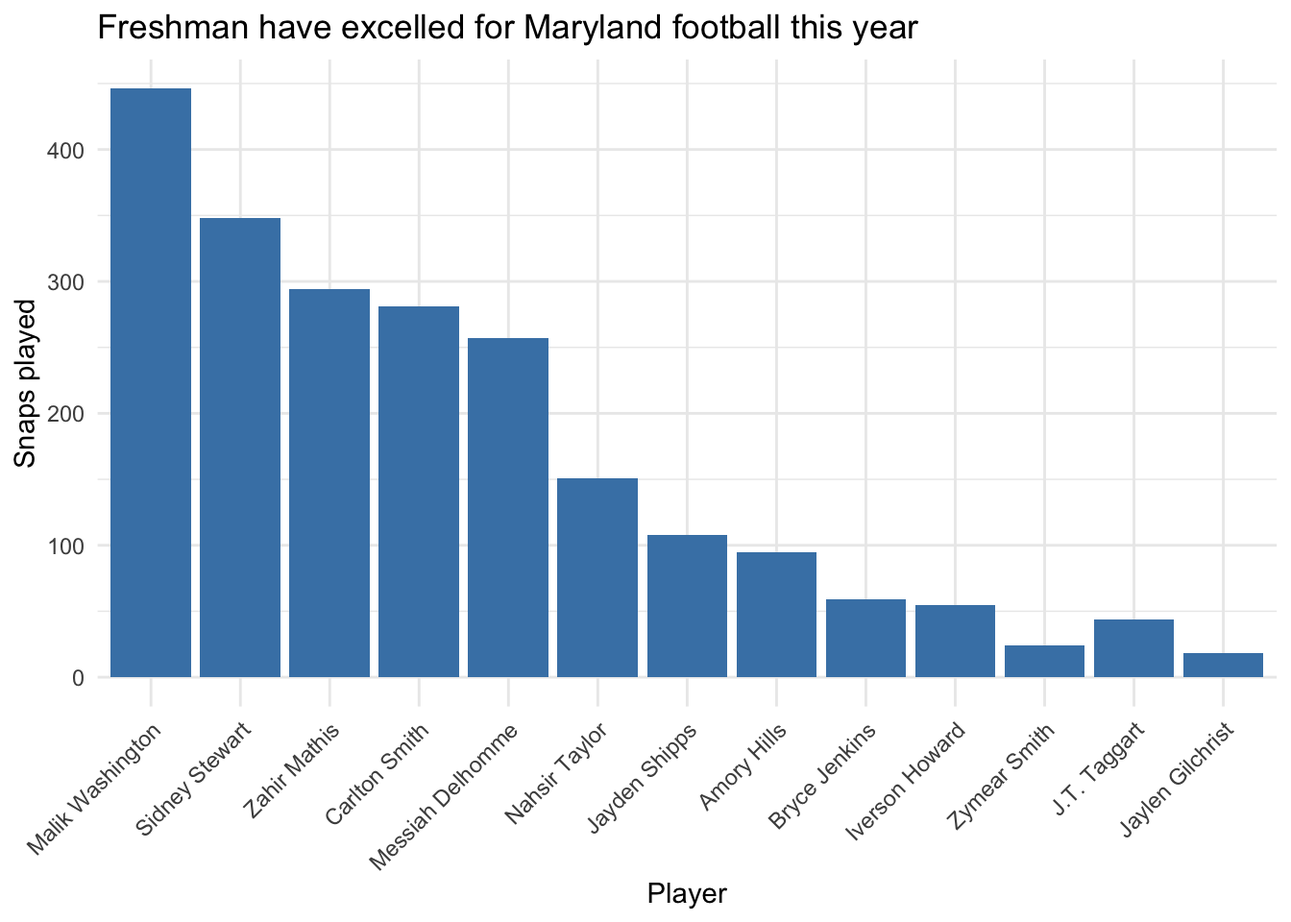
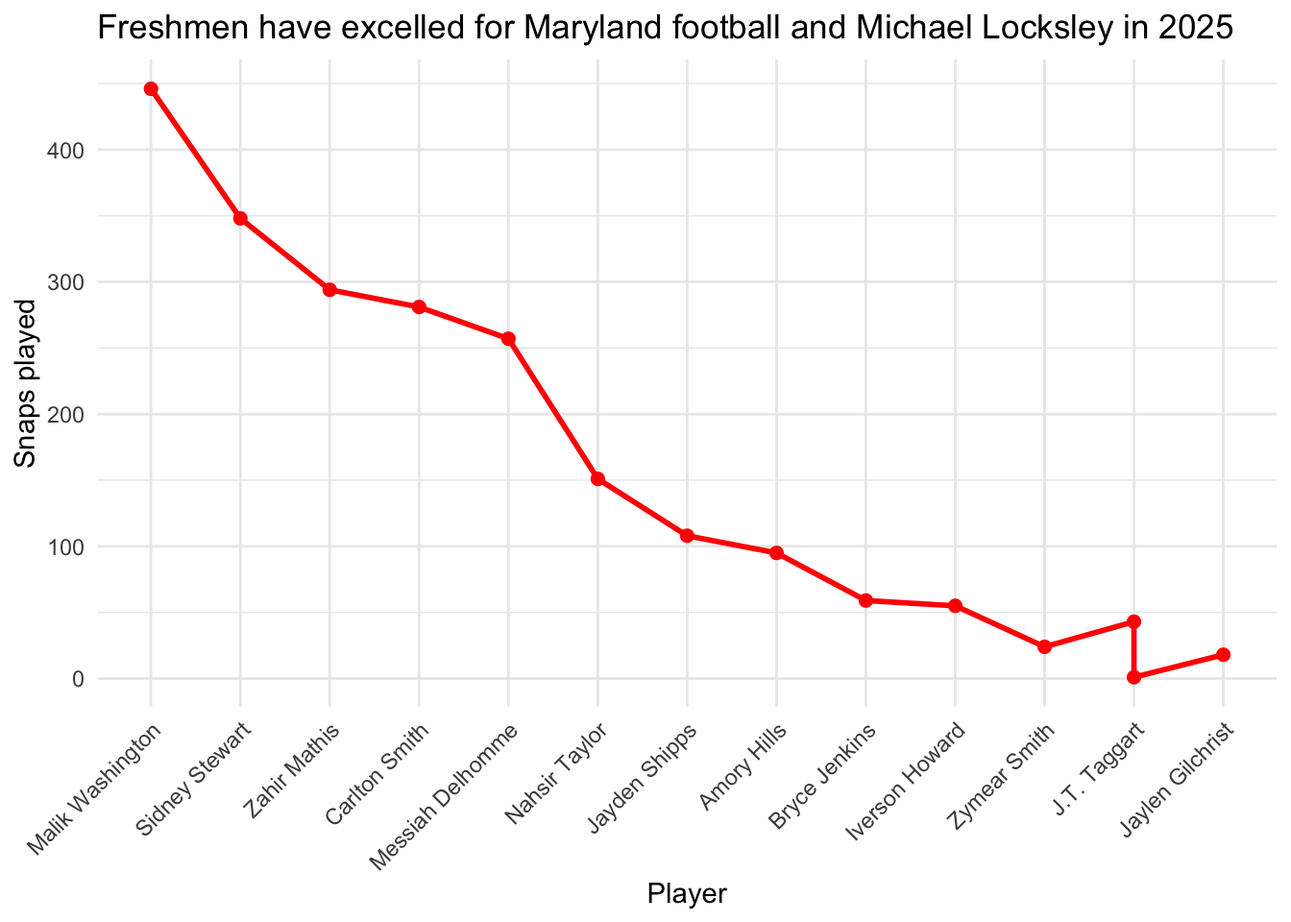
background
background

Changed region(s): [[0.0312, 0.0938, 1.0, 0.75], [0.625, 0.0, 0.9688, 0.0625]]

diff --git a/docs/posts/presentation/background.html b/docs/posts/presentation/background.html
@@ -164,10 +164,10 @@ pre > code.sourceCode > span > a:first-child::before { text-decoration: underlin
 <div class="cell-output cell-output-stderr">
 <pre><code>── Attaching core tidyverse packages ──────────────────────── tidyverse 2.0.0 ──
 ✔ dplyr     1.1.4     ✔ readr     2.1.5
-✔ forcats   1.0.0     ✔ stringr   1.5.1
-✔ ggplot2   3.5.1     ✔ tibble    3.2.1
+✔ forcats   1.0.0     ✔ stringr   1.6.0
+✔ ggplot2   4.0.0     ✔ tibble    3.3.0
 ✔ lubridate 1.9.3     ✔ tidyr     1.3.1
-✔ purrr     1.1.0     
+✔ purrr     1.2.0     
 ── Conflicts ────────────────────────────────────────── tidyverse_conflicts() ──
 ✖ dplyr::filter() masks stats::filter()
 ✖ dplyr::lag()    masks stats::lag()
@@ -236,21 +236,279 @@ lgl  (1): draft_season
 <span id="cb12-2"><a href="#cb12-2" aria-hidden="true" tabindex="-1"></a>  <span class="fu">arrange</span>(<span class="fu">desc</span>(snaps))</span></code></pre></div><button title="Copy to Clipboard" class="code-copy-button"><i class="bi"></i></button></div>
 </div>
 <div class="cell">
-<div class="code-copy-outer-scaffold"><div class="sourceCode cell-code" id="cb13"><pre class="sourceCode r code-with-copy"><code class="sourceCode r"><span id="cb13-1"><a href="#cb13-1" aria-hidden="true" tabindex="-1"></a><span class="fu">ggplot</span>(combined_snaps, <span class="fu">aes</span>(<span class="at">x =</span> <span class="fu">reorder</span>(player, <span class="sc">-</span>snaps), <span class="at">y =</span> snaps)) <span class="sc">+</span></span>
-<span id="cb13-2"><a href="#cb13-2" aria-hidden="true" tabindex="-1"></a>  <span class="fu">geom_col</span>(<span class="at">fill =</span> <span class="st">"steelblue"</span>) <span class="sc">+</span></span>
-<span id="cb13-3"><a href="#cb13-3" aria-hidden="true" tabindex="-1"></a>  <span class="fu">labs</span>(</span>
-<span id="cb13-4"><a href="#cb13-4" aria-hidden="true" tabindex="-1"></a>    <span class="at">title =</span> <span class="st">"Freshman have excelled for Maryland football this year"</span>,</span>
-<span id="cb13-5"><a href="#cb13-5" aria-hidden="true" tabindex="-1"></a>    <span class="at">x =</span> <span class="st">"Player"</span>,</span>
-<span id="cb13-6"><a href="#cb13-6" aria-hidden="true" tabindex="-1"></a>    <span class="at">y =</span> <span class="st">"Snaps played"</span></span>
-<span id="cb13-7"><a href="#cb13-7" aria-hidden="true" tabindex="-1"></a>  ) <span class="sc">+</span></span>
-<span id="cb13-8"><a href="#cb13-8" aria-hidden="true" tabindex="-1"></a>  <span class="fu">theme_minimal</span>() <span class="sc">+</span></span>
-<span id="cb13-9"><a href="#cb13-9" aria-hidden="true" tabindex="-1"></a>  <span class="fu">theme</span>(</span>
-<span id="cb13-10"><a href="#cb13-10" aria-hidden="true" tabindex="-1"></a>    <span class="at">axis.text.x =</span> <span class="fu">element_text</span>(<span class="at">angle =</span> <span class="dv">45</span>, <span class="at">hjust =</span> <span class="dv">1</span>)</span>
-<span id="cb13-11"><a href="#cb13-11" aria-hidden="true" tabindex="-1"></a>  )</span></code></pre></div><button title="Copy to Clipboard" class="code-copy-button"><i class="bi"></i></button></div>
+<div class="code-copy-outer-scaffold"><div class="sourceCode cell-code" id="cb13"><pre class="sourceCode r code-with-copy"><code class="sourceCode r"><span id="cb13-1"><a href="#cb13-1" aria-hidden="true" tabindex="-1"></a><span class="fu">ggplot</span>(combined_snaps, <span class="fu">aes</span>(<span class="at">x =</span> <span class="fu">reorder</span>(player, <span class="sc">-</span>snaps), <span class="at">y =</span> snaps, <span class="at">group =</span> <span class="dv">1</span>)) <span class="sc">+</span></span>
+<span id="cb13-2"><a href="#cb13-2" aria-hidden="true" tabindex="-1"></a>  <span class="fu">geom_line</span>(<span class="at">color =</span> <span class="st">"red"</span>, <span class="at">linewidth =</span> <span class="dv">1</span>) <span class="sc">+</span></span>
+<span id="cb13-3"><a href="#cb13-3" aria-hidden="true" tabindex="-1"></a>  <span class="fu">geom_point</span>(<span class="at">color =</span> <span class="st">"red"</span>, <span class="at">size =</span> <span class="dv">2</span>) <span class="sc">+</span></span>
+<span id="cb13-4"><a href="#cb13-4" aria-hidden="true" tabindex="-1"></a>  <span class="fu">labs</span>(</span>
+<span id="cb13-5"><a href="#cb13-5" aria-hidden="true" tabindex="-1"></a>    <span class="at">title =</span> <span class="st">"Freshmen have excelled for Maryland football and Michael Locksley in 2025"</span>,</span>
+<span id="cb13-6"><a href="#cb13-6" aria-hidden="true" tabindex="-1"></a>    <span class="at">x =</span> <span class="st">"Player"</span>,</span>
+<span id="cb13-7"><a href="#cb13-7" aria-hidden="true" tabindex="-1"></a>    <span class="at">y =</span> <span class="st">"Snaps played"</span></span>
+<span id="cb13-8"><a href="#cb13-8" aria-hidden="true" tabindex="-1"></a>  ) <span class="sc">+</span></span>
+<span id="cb13-9"><a href="#cb13-9" aria-hidden="true" tabindex="-1"></a>  <span class="fu">theme_minimal</span>() <span class="sc">+</span></span>
+<span id="cb13-10"><a href="#cb13-10" aria-hidden="true" tabindex="-1"></a>  <span class="fu">theme</span>(</span>
+<span id="cb13-11"><a href="#cb13-11" aria-hidden="true" tabindex="-1"></a>    <span class="at">axis.text.x =</span> <span class="fu">element_text</span>(<span class="at">angle =</span> <span class="dv">45</span>, <span class="at">hjust =</span> <span class="dv">1</span>)</span>
+<span id="cb13-12"><a href="#cb13-12" aria-hidden="true" tabindex="-1"></a>  )</span></code></pre></div><button title="Copy to Clipboard" class="code-copy-button"><i class="bi"></i></button></div>
 <div class="cell-output-display">
 <div>
 <figure class="figure">
 <p><img src="background_files/figure-html/unnamed-chunk-10-1.png" class="img-fluid figure-img" width="672"></p>
+</figure>
+</div>
+</div>
+</div>
+<div class="cell">
+<div class="code-copy-outer-scaffold"><div class="sourceCode cell-code" id="cb14"><pre class="sourceCode r code-with-copy"><code class="sourceCode r"><span id="cb14-1"><a href="#cb14-1" aria-hidden="true" tabindex="-1"></a>washington <span class="ot">&lt;-</span> <span class="fu">read_csv</span>(<span class="st">"washington.csv"</span>)</span></code></pre></div><button title="Copy to Clipboard" class="code-copy-button"><i class="bi"></i></button></div>
+<div class="cell-output cell-output-stderr">
+<pre><code>Rows: 36 Columns: 59
+── Column specification ────────────────────────────────────────────────────────
+Delimiter: ","
+chr  (5): team_name, jersey_number, team, position, player
+dbl (53): targets, interception_touchdowns, forced_fumbles, missed_tackles, ...
+lgl  (1): draft_season
+
+ℹ Use `spec()` to retrieve the full column specification for this data.
+ℹ Specify the column types or set `show_col_types = FALSE` to quiet this message.</code></pre>
+</div>
+<div class="code-copy-outer-scaffold"><div class="sourceCode cell-code" id="cb16"><pre class="sourceCode r code-with-copy"><code class="sourceCode r"><span id="cb16-1"><a href="#cb16-1" aria-hidden="true" tabindex="-1"></a>wisconsin <span class="ot">&lt;-</span> <span class="fu">read_csv</span>(<span class="st">"wisconsin.csv"</span>)</span></code></pre></div><button title="Copy to Clipboard" class="code-copy-button"><i class="bi"></i></button></div>
+<div class="cell-output cell-output-stderr">
+<pre><code>Rows: 38 Columns: 59
+── Column specification ────────────────────────────────────────────────────────
+Delimiter: ","
+chr  (5): team_name, jersey_number, team, position, player
+dbl (53): targets, interception_touchdowns, forced_fumbles, missed_tackles, ...
+lgl  (1): draft_season
+
+ℹ Use `spec()` to retrieve the full column specification for this data.
+ℹ Specify the column types or set `show_col_types = FALSE` to quiet this message.</code></pre>
+</div>
+<div class="code-copy-outer-scaffold"><div class="sourceCode cell-code" id="cb18"><pre class="sourceCode r code-with-copy"><code class="sourceCode r"><span id="cb18-1"><a href="#cb18-1" aria-hidden="true" tabindex="-1"></a>usc <span class="ot">&lt;-</span> <span class="fu">read_csv</span>(<span class="st">"usc.csv"</span>)</span></code></pre></div><button title="Copy to Clipboard" class="code-copy-button"><i class="bi"></i></button></div>
+<div class="cell-output cell-output-stderr">
+<pre><code>Rows: 45 Columns: 59
+── Column specification ────────────────────────────────────────────────────────
+Delimiter: ","
+chr  (5): team_name, jersey_number, team, position, player
+dbl (53): targets, interception_touchdowns, forced_fumbles, missed_tackles, ...
+lgl  (1): draft_season
+
+ℹ Use `spec()` to retrieve the full column specification for this data.
+ℹ Specify the column types or set `show_col_types = FALSE` to quiet this message.</code></pre>
+</div>
+<div class="code-copy-outer-scaffold"><div class="sourceCode cell-code" id="cb20"><pre class="sourceCode r code-with-copy"><code class="sourceCode r"><span id="cb20-1"><a href="#cb20-1" aria-hidden="true" tabindex="-1"></a>ucla <span class="ot">&lt;-</span> <span class="fu">read_csv</span>(<span class="st">"ucla.csv"</span>)</span></code></pre></div><button title="Copy to Clipboard" class="code-copy-button"><i class="bi"></i></button></div>
+<div class="cell-output cell-output-stderr">
+<pre><code>Rows: 32 Columns: 59
+── Column specification ────────────────────────────────────────────────────────
+Delimiter: ","
+chr  (5): team_name, jersey_number, team, position, player
+dbl (53): targets, interception_touchdowns, forced_fumbles, missed_tackles, ...
+lgl  (1): draft_season
+
+ℹ Use `spec()` to retrieve the full column specification for this data.
+ℹ Specify the column types or set `show_col_types = FALSE` to quiet this message.</code></pre>
+</div>
+<div class="code-copy-outer-scaffold"><div class="sourceCode cell-code" id="cb22"><pre class="sourceCode r code-with-copy"><code class="sourceCode r"><span id="cb22-1"><a href="#cb22-1" aria-hidden="true" tabindex="-1"></a>rutgers <span class="ot">&lt;-</span> <span class="fu">read_csv</span>(<span class="st">"rutgers.csv"</span>)</span></code></pre></div><button title="Copy to Clipboard" class="code-copy-button"><i class="bi"></i></button></div>
+<div class="cell-output cell-output-stderr">
+<pre><code>Rows: 39 Columns: 59
+── Column specification ────────────────────────────────────────────────────────
+Delimiter: ","
+chr  (5): team_name, jersey_number, team, position, player
+dbl (53): targets, interception_touchdowns, forced_fumbles, missed_tackles, ...
+lgl  (1): draft_season
+
+ℹ Use `spec()` to retrieve the full column specification for this data.
+ℹ Specify the column types or set `show_col_types = FALSE` to quiet this message.</code></pre>
+</div>
+<div class="code-copy-outer-scaffold"><div class="sourceCode cell-code" id="cb24"><pre class="sourceCode r code-with-copy"><code class="sourceCode r"><span id="cb24-1"><a href="#cb24-1" aria-hidden="true" tabindex="-1"></a>purdue <span class="ot">&lt;-</span> <span class="fu">read_csv</span>(<span class="st">"purdue.csv"</span>)</span></code></pre></div><button title="Copy to Clipboard" class="code-copy-button"><i class="bi"></i></button></div>
+<div class="cell-output cell-output-stderr">
+<pre><code>Rows: 36 Columns: 59
+── Column specification ────────────────────────────────────────────────────────
+Delimiter: ","
+chr  (5): team_name, jersey_number, team, position, player
+dbl (53): targets, interception_touchdowns, forced_fumbles, missed_tackles, ...
+lgl  (1): draft_season
+
+ℹ Use `spec()` to retrieve the full column specification for this data.
+ℹ Specify the column types or set `show_col_types = FALSE` to quiet this message.</code></pre>
+</div>
+<div class="code-copy-outer-scaffold"><div class="sourceCode cell-code" id="cb26"><pre class="sourceCode r code-with-copy"><code class="sourceCode r"><span id="cb26-1"><a href="#cb26-1" aria-hidden="true" tabindex="-1"></a>penn_state <span class="ot">&lt;-</span> <span class="fu">read_csv</span>(<span class="st">"psu.csv"</span>)</span></code></pre></div><button title="Copy to Clipboard" class="code-copy-button"><i class="bi"></i></button></div>
+<div class="cell-output cell-output-stderr">
+<pre><code>Rows: 44 Columns: 59
+── Column specification ────────────────────────────────────────────────────────
+Delimiter: ","
+chr  (5): team_name, jersey_number, team, position, player
+dbl (53): targets, interception_touchdowns, forced_fumbles, missed_tackles, ...
+lgl  (1): draft_season
+
+ℹ Use `spec()` to retrieve the full column specification for this data.
+ℹ Specify the column types or set `show_col_types = FALSE` to quiet this message.</code></pre>
+</div>
+<div class="code-copy-outer-scaffold"><div class="sourceCode cell-code" id="cb28"><pre class="sourceCode r code-with-copy"><code class="sourceCode r"><span id="cb28-1"><a href="#cb28-1" aria-hidden="true" tabindex="-1"></a>oregon <span class="ot">&lt;-</span> <span class="fu">read_csv</span>(<span class="st">"oregon.csv"</span>)</span></code></pre></div><button title="Copy to Clipboard" class="code-copy-button"><i class="bi"></i></button></div>
+<div class="cell-output cell-output-stderr">
+<pre><code>Rows: 37 Columns: 59
+── Column specification ────────────────────────────────────────────────────────
+Delimiter: ","
+chr  (5): team_name, jersey_number, team, position, player
+dbl (53): targets, interception_touchdowns, forced_fumbles, missed_tackles, ...
+lgl  (1): draft_season
+
+ℹ Use `spec()` to retrieve the full column specification for this data.
+ℹ Specify the column types or set `show_col_types = FALSE` to quiet this message.</code></pre>
+</div>
+<div class="code-copy-outer-scaffold"><div class="sourceCode cell-code" id="cb30"><pre class="sourceCode r code-with-copy"><code class="sourceCode r"><span id="cb30-1"><a href="#cb30-1" aria-hidden="true" tabindex="-1"></a>northwestern <span class="ot">&lt;-</span> <span class="fu">read_csv</span>(<span class="st">"northwestern.csv"</span>)</span></code></pre></div><button title="Copy to Clipboard" class="code-copy-button"><i class="bi"></i></button></div>
+<div class="cell-output cell-output-stderr">
+<pre><code>Rows: 34 Columns: 59
+── Column specification ────────────────────────────────────────────────────────
+Delimiter: ","
+chr  (5): team_name, jersey_number, team, position, player
+dbl (53): targets, interception_touchdowns, forced_fumbles, missed_tackles, ...
+lgl  (1): draft_season
+
+ℹ Use `spec()` to retrieve the full column specification for this data.
+ℹ Specify the column types or set `show_col_types = FALSE` to quiet this message.</code></pre>
+</div>
+<div class="code-copy-outer-scaffold"><div class="sourceCode cell-code" id="cb32"><pre class="sourceCode r code-with-copy"><code class="sourceCode r"><span id="cb32-1"><a href="#cb32-1" aria-hidden="true" tabindex="-1"></a>nebraska <span class="ot">&lt;-</span> <span class="fu">read_csv</span>(<span class="st">"nebraska.csv"</span>)</span></code></pre></div><button title="Copy to Clipboard" class="code-copy-button"><i class="bi"></i></button></div>
+<div class="cell-output cell-output-stderr">
+<pre><code>Rows: 52 Columns: 59
+── Column specification ────────────────────────────────────────────────────────
+Delimiter: ","
+chr  (5): team_name, jersey_number, team, position, player
+dbl (53): targets, interception_touchdowns, forced_fumbles, missed_tackles, ...
+lgl  (1): draft_season
+
+ℹ Use `spec()` to retrieve the full column specification for this data.
+ℹ Specify the column types or set `show_col_types = FALSE` to quiet this message.</code></pre>
+</div>
+<div class="code-copy-outer-scaffold"><div class="sourceCode cell-code" id="cb34"><pre class="sourceCode r code-with-copy"><code class="sourceCode r"><span id="cb34-1"><a href="#cb34-1" aria-hidden="true" tabindex="-1"></a>minnesota <span class="ot">&lt;-</span> <span class="fu">read_csv</span>(<span class="st">"minnesota.csv"</span>)</span></code></pre></div><button title="Copy to Clipboard" class="code-copy-button"><i class="bi"></i></button></div>
+<div class="cell-output cell-output-stderr">
+<pre><code>Rows: 33 Columns: 59
+── Column specification ────────────────────────────────────────────────────────
+Delimiter: ","
+chr  (5): team_name, jersey_number, team, position, player
+dbl (53): targets, interception_touchdowns, forced_fumbles, missed_tackles, ...
+lgl  (1): draft_season
+
+ℹ Use `spec()` to retrieve the full column specification for this data.
+ℹ Specify the column types or set `show_col_types = FALSE` to quiet this message.</code></pre>
+</div>
+<div class="code-copy-outer-scaffold"><div class="sourceCode cell-code" id="cb36"><pre class="sourceCode r code-with-copy"><code class="sourceCode r"><span id="cb36-1"><a href="#cb36-1" aria-hidden="true" tabindex="-1"></a>michigan <span class="ot">&lt;-</span> <span class="fu">read_csv</span>(<span class="st">"michigan.csv"</span>)</span></code></pre></div><button title="Copy to Clipboard" class="code-copy-button"><i class="bi"></i></button></div>
+<div class="cell-output cell-output-stderr">
+<pre><code>Rows: 45 Columns: 59
+── Column specification ────────────────────────────────────────────────────────
+Delimiter: ","
+chr  (5): team_name, jersey_number, team, position, player
+dbl (53): targets, interception_touchdowns, forced_fumbles, missed_tackles, ...
+lgl  (1): draft_season
+
+ℹ Use `spec()` to retrieve the full column specification for this data.
+ℹ Specify the column types or set `show_col_types = FALSE` to quiet this message.</code></pre>
+</div>
+<div class="code-copy-outer-scaffold"><div class="sourceCode cell-code" id="cb38"><pre class="sourceCode r code-with-copy"><code class="sourceCode r"><span id="cb38-1"><a href="#cb38-1" aria-hidden="true" tabindex="-1"></a>msu <span class="ot">&lt;-</span> <span class="fu">read_csv</span>(<span class="st">"msu.csv"</span>)</span></code></pre></div><button title="Copy to Clipboard" class="code-copy-button"><i class="bi"></i></button></div>
+<div class="cell-output cell-output-stderr">
+<pre><code>Rows: 45 Columns: 59
+── Column specification ────────────────────────────────────────────────────────
+Delimiter: ","
+chr  (5): team_name, jersey_number, team, position, player
+dbl (53): targets, interception_touchdowns, forced_fumbles, missed_tackles, ...
+lgl  (1): draft_season
+
+ℹ Use `spec()` to retrieve the full column specification for this data.
+ℹ Specify the column types or set `show_col_types = FALSE` to quiet this message.</code></pre>
+</div>
+<div class="code-copy-outer-scaffold"><div class="sourceCode cell-code" id="cb40"><pre class="sourceCode r code-with-copy"><code class="sourceCode r"><span id="cb40-1"><a href="#cb40-1" aria-hidden="true" tabindex="-1"></a>iowa <span class="ot">&lt;-</span> <span class="fu">read_csv</span>(<span class="st">"iowa.csv"</span>)</span></code></pre></div><button title="Copy to Clipboard" class="code-copy-button"><i class="bi"></i></button></div>
+<div class="cell-output cell-output-stderr">
+<pre><code>Rows: 38 Columns: 59
+── Column specification ────────────────────────────────────────────────────────
+Delimiter: ","
+chr  (5): team_name, jersey_number, team, position, player
+dbl (53): targets, interception_touchdowns, forced_fumbles, missed_tackles, ...
+lgl  (1): draft_season
+
+ℹ Use `spec()` to retrieve the full column specification for this data.
+ℹ Specify the column types or set `show_col_types = FALSE` to quiet this message.</code></pre>
+</div>
+<div class="code-copy-outer-scaffold"><div class="sourceCode cell-code" id="cb42"><pre class="sourceCode r code-with-copy"><code class="sourceCode r"><span id="cb42-1"><a href="#cb42-1" aria-hidden="true" tabindex="-1"></a>indiana <span class="ot">&lt;-</span> <span class="fu">read_csv</span>(<span class="st">"indiana.csv"</span>)</span></code></pre></div><button title="Copy to Clipboard" class="code-copy-button"><i class="bi"></i></button></div>
+<div class="cell-output cell-output-stderr">
+<pre><code>Rows: 37 Columns: 59
+── Column specification ────────────────────────────────────────────────────────
+Delimiter: ","
+chr  (5): team_name, jersey_number, team, position, player
+dbl (53): targets, interception_touchdowns, forced_fumbles, missed_tackles, ...
+lgl  (1): draft_season
+
+ℹ Use `spec()` to retrieve the full column specification for this data.
+ℹ Specify the column types or set `show_col_types = FALSE` to quiet this message.</code></pre>
+</div>
+<div class="code-copy-outer-scaffold"><div class="sourceCode cell-code" id="cb44"><pre class="sourceCode r code-with-copy"><code class="sourceCode r"><span id="cb44-1"><a href="#cb44-1" aria-hidden="true" tabindex="-1"></a>illinois <span class="ot">&lt;-</span> <span class="fu">read_csv</span>(<span class="st">"illinois.csv"</span>)</span></code></pre></div><button title="Copy to Clipboard" class="code-copy-button"><i class="bi"></i></button></div>
+<div class="cell-output cell-output-stderr">
+<pre><code>Rows: 39 Columns: 59
+── Column specification ────────────────────────────────────────────────────────
+Delimiter: ","
+chr  (5): team_name, jersey_number, team, position, player
+dbl (53): targets, interception_touchdowns, forced_fumbles, missed_tackles, ...
+lgl  (1): draft_season
+
+ℹ Use `spec()` to retrieve the full column specification for this data.
+ℹ Specify the column types or set `show_col_types = FALSE` to quiet this message.</code></pre>
+</div>
+<div class="code-copy-outer-scaffold"><div class="sourceCode cell-code" id="cb46"><pre class="sourceCode r code-with-copy"><code class="sourceCode r"><span id="cb46-1"><a href="#cb46-1" aria-hidden="true" tabindex="-1"></a>osu <span class="ot">&lt;-</span> <span class="fu">read_csv</span>(<span class="st">"osu.csv"</span>)</span></code></pre></div><button title="Copy to Clipboard" class="code-copy-button"><i class="bi"></i></button></div>
+<div class="cell-output cell-output-stderr">
+<pre><code>Rows: 41 Columns: 59
+── Column specification ────────────────────────────────────────────────────────
+Delimiter: ","
+chr  (5): team_name, jersey_number, team, position, player
+dbl (53): targets, interception_touchdowns, forced_fumbles, missed_tackles, ...
+lgl  (1): draft_season
+
+ℹ Use `spec()` to retrieve the full column specification for this data.
+ℹ Specify the column types or set `show_col_types = FALSE` to quiet this message.</code></pre>
+</div>
+</div>
+<div class="cell">
+<div class="code-copy-outer-scaffold"><div class="sourceCode cell-code" id="cb48"><pre class="sourceCode r code-with-copy"><code class="sourceCode r"><span id="cb48-1"><a href="#cb48-1" aria-hidden="true" tabindex="-1"></a>big_ten_data <span class="ot">&lt;-</span> <span class="fu">bind_rows</span>(</span>
+<span id="cb48-2"><a href="#cb48-2" aria-hidden="true" tabindex="-1"></a>  washington,</span>
+<span id="cb48-3"><a href="#cb48-3" aria-hidden="true" tabindex="-1"></a>  wisconsin,</span>
+<span id="cb48-4"><a href="#cb48-4" aria-hidden="true" tabindex="-1"></a>  usc,</span>
+<span id="cb48-5"><a href="#cb48-5" aria-hidden="true" tabindex="-1"></a>  ucla,</span>
+<span id="cb48-6"><a href="#cb48-6" aria-hidden="true" tabindex="-1"></a>  rutgers,</span>
+<span id="cb48-7"><a href="#cb48-7" aria-hidden="true" tabindex="-1"></a>  purdue,</span>
+<span id="cb48-8"><a href="#cb48-8" aria-hidden="true" tabindex="-1"></a>  penn_state,</span>
+<span id="cb48-9"><a href="#cb48-9" aria-hidden="true" tabindex="-1"></a>  oregon,</span>
+<span id="cb48-10"><a href="#cb48-10" aria-hidden="true" tabindex="-1"></a>  northwestern,</span>
+<span id="cb48-11"><a href="#cb48-11" aria-hidden="true" tabindex="-1"></a>  nebraska,</span>
+<span id="cb48-12"><a href="#cb48-12" aria-hidden="true" tabindex="-1"></a>  minnesota,</span>
+<span id="cb48-13"><a href="#cb48-13" aria-hidden="true" tabindex="-1"></a>  michigan,</span>
+<span id="cb48-14"><a href="#cb48-14" aria-hidden="true" tabindex="-1"></a>  msu,</span>
+<span id="cb48-15"><a href="#cb48-15" aria-hidden="true" tabindex="-1"></a>  iowa,</span>
+<span id="cb48-16"><a href="#cb48-16" aria-hidden="true" tabindex="-1"></a>  indiana,</span>
+<span id="cb48-17"><a href="#cb48-17" aria-hidden="true" tabindex="-1"></a>  illinois,</span>
+<span id="cb48-18"><a href="#cb48-18" aria-hidden="true" tabindex="-1"></a>  osu,</span>
+<span id="cb48-19"><a href="#cb48-19" aria-hidden="true" tabindex="-1"></a>  maryland_def_snaps</span>
+<span id="cb48-20"><a href="#cb48-20" aria-hidden="true" tabindex="-1"></a>)</span></code></pre></div><button title="Copy to Clipboard" class="code-copy-button"><i class="bi"></i></button></div>
+</div>
+<div class="cell">
+<div class="code-copy-outer-scaffold"><div class="sourceCode cell-code" id="cb49"><pre class="sourceCode r code-with-copy"><code class="sourceCode r"><span id="cb49-1"><a href="#cb49-1" aria-hidden="true" tabindex="-1"></a>big_ten_2029 <span class="ot">&lt;-</span> big_ten_data <span class="sc">|&gt;</span></span>
+<span id="cb49-2"><a href="#cb49-2" aria-hidden="true" tabindex="-1"></a>  <span class="fu">filter</span>(eligible_season <span class="sc">==</span> <span class="dv">2029</span>)</span></code></pre></div><button title="Copy to Clipboard" class="code-copy-button"><i class="bi"></i></button></div>
+</div>
+<div class="cell">
+<div class="code-copy-outer-scaffold"><div class="sourceCode cell-code" id="cb50"><pre class="sourceCode r code-with-copy"><code class="sourceCode r"><span id="cb50-1"><a href="#cb50-1" aria-hidden="true" tabindex="-1"></a>team_defense_snaps <span class="ot">&lt;-</span> big_ten_2029 <span class="sc">%&gt;%</span></span>
+<span id="cb50-2"><a href="#cb50-2" aria-hidden="true" tabindex="-1"></a>  <span class="fu">group_by</span>(team_name) <span class="sc">|&gt;</span></span>
+<span id="cb50-3"><a href="#cb50-3" aria-hidden="true" tabindex="-1"></a>  <span class="fu">summarise</span>(<span class="at">total_snap_counts_defense =</span> <span class="fu">sum</span>(snap_counts_defense, <span class="at">na.rm =</span> <span class="cn">TRUE</span>)) <span class="sc">|&gt;</span></span>
+<span id="cb50-4"><a href="#cb50-4" aria-hidden="true" tabindex="-1"></a>  <span class="fu">arrange</span>(<span class="fu">desc</span>(total_snap_counts_defense))</span></code></pre></div><button title="Copy to Clipboard" class="code-copy-button"><i class="bi"></i></button></div>
+</div>
+<div class="cell">
+<div class="code-copy-outer-scaffold"><div class="sourceCode cell-code" id="cb51"><pre class="sourceCode r code-with-copy"><code class="sourceCode r"><span id="cb51-1"><a href="#cb51-1" aria-hidden="true" tabindex="-1"></a><span class="fu">ggplot</span>(team_defense_snaps, <span class="fu">aes</span>(<span class="at">x =</span> <span class="fu">reorder</span>(team_name, total_snap_counts_defense), </span>
+<span id="cb51-2"><a href="#cb51-2" aria-hidden="true" tabindex="-1"></a>                               <span class="at">y =</span> total_snap_counts_defense)) <span class="sc">+</span></span>
+<span id="cb51-3"><a href="#cb51-3" aria-hidden="true" tabindex="-1"></a>  <span class="fu">geom_col</span>(<span class="at">fill =</span> <span class="st">"steelblue"</span>) <span class="sc">+</span></span>
+<span id="cb51-4"><a href="#cb51-4" aria-hidden="true" tabindex="-1"></a>  <span class="fu">coord_flip</span>() <span class="sc">+</span>  </span>
+<span id="cb51-5"><a href="#cb51-5" aria-hidden="true" tabindex="-1"></a>  <span class="fu">labs</span>(</span>
+<span id="cb51-6"><a href="#cb51-6" aria-hidden="true" tabindex="-1"></a>    <span class="at">title =</span> <span class="st">"Maryland's defense plays the most freshman in the B10"</span>,</span>
+<span id="cb51-7"><a href="#cb51-7" aria-hidden="true" tabindex="-1"></a>    <span class="at">x =</span> <span class="st">"Team"</span>,</span>
+<span id="cb51-8"><a href="#cb51-8" aria-hidden="true" tabindex="-1"></a>    <span class="at">y =</span> <span class="st">"Total Freshman Defensive Snaps"</span></span>
+<span id="cb51-9"><a href="#cb51-9" aria-hidden="true" tabindex="-1"></a>  ) <span class="sc">+</span></span>
+<span id="cb51-10"><a href="#cb51-10" aria-hidden="true" tabindex="-1"></a>  <span class="fu">theme_minimal</span>(<span class="at">base_size =</span> <span class="dv">14</span>)</span></code></pre></div><button title="Copy to Clipboard" class="code-copy-button"><i class="bi"></i></button></div>
+<div class="cell-output-display">
+<div>
+<figure class="figure">
+<p><img src="background_files/figure-html/unnamed-chunk-15-1.png" class="img-fluid figure-img" width="672"></p>
 </figure>
 </div>
 </div>

diff --git a/docs/index.html b/docs/index.html
@@ -333,7 +333,7 @@ Progression is not always linear in sports. Plenty of times, you saw freshman wh
 </a>
 </div>
 </div>
-<div class="quarto-post image-right" data-index="6" data-listing-file-modified-sort="1762178628587" data-listing-reading-time-sort="2" data-listing-word-count-sort="318">
+<div class="quarto-post image-right" data-index="6" data-listing-file-modified-sort="1763769374089" data-listing-reading-time-sort="2" data-listing-word-count-sort="321">
 <div class="thumbnail"><a href="./posts/presentation/background.html" class="no-external">
 
 <p class="card-img-top"><img src="posts/presentation/background_files/figure-html/unnamed-chunk-10-1.png"  class="thumbnail-image card-img"/></p>
